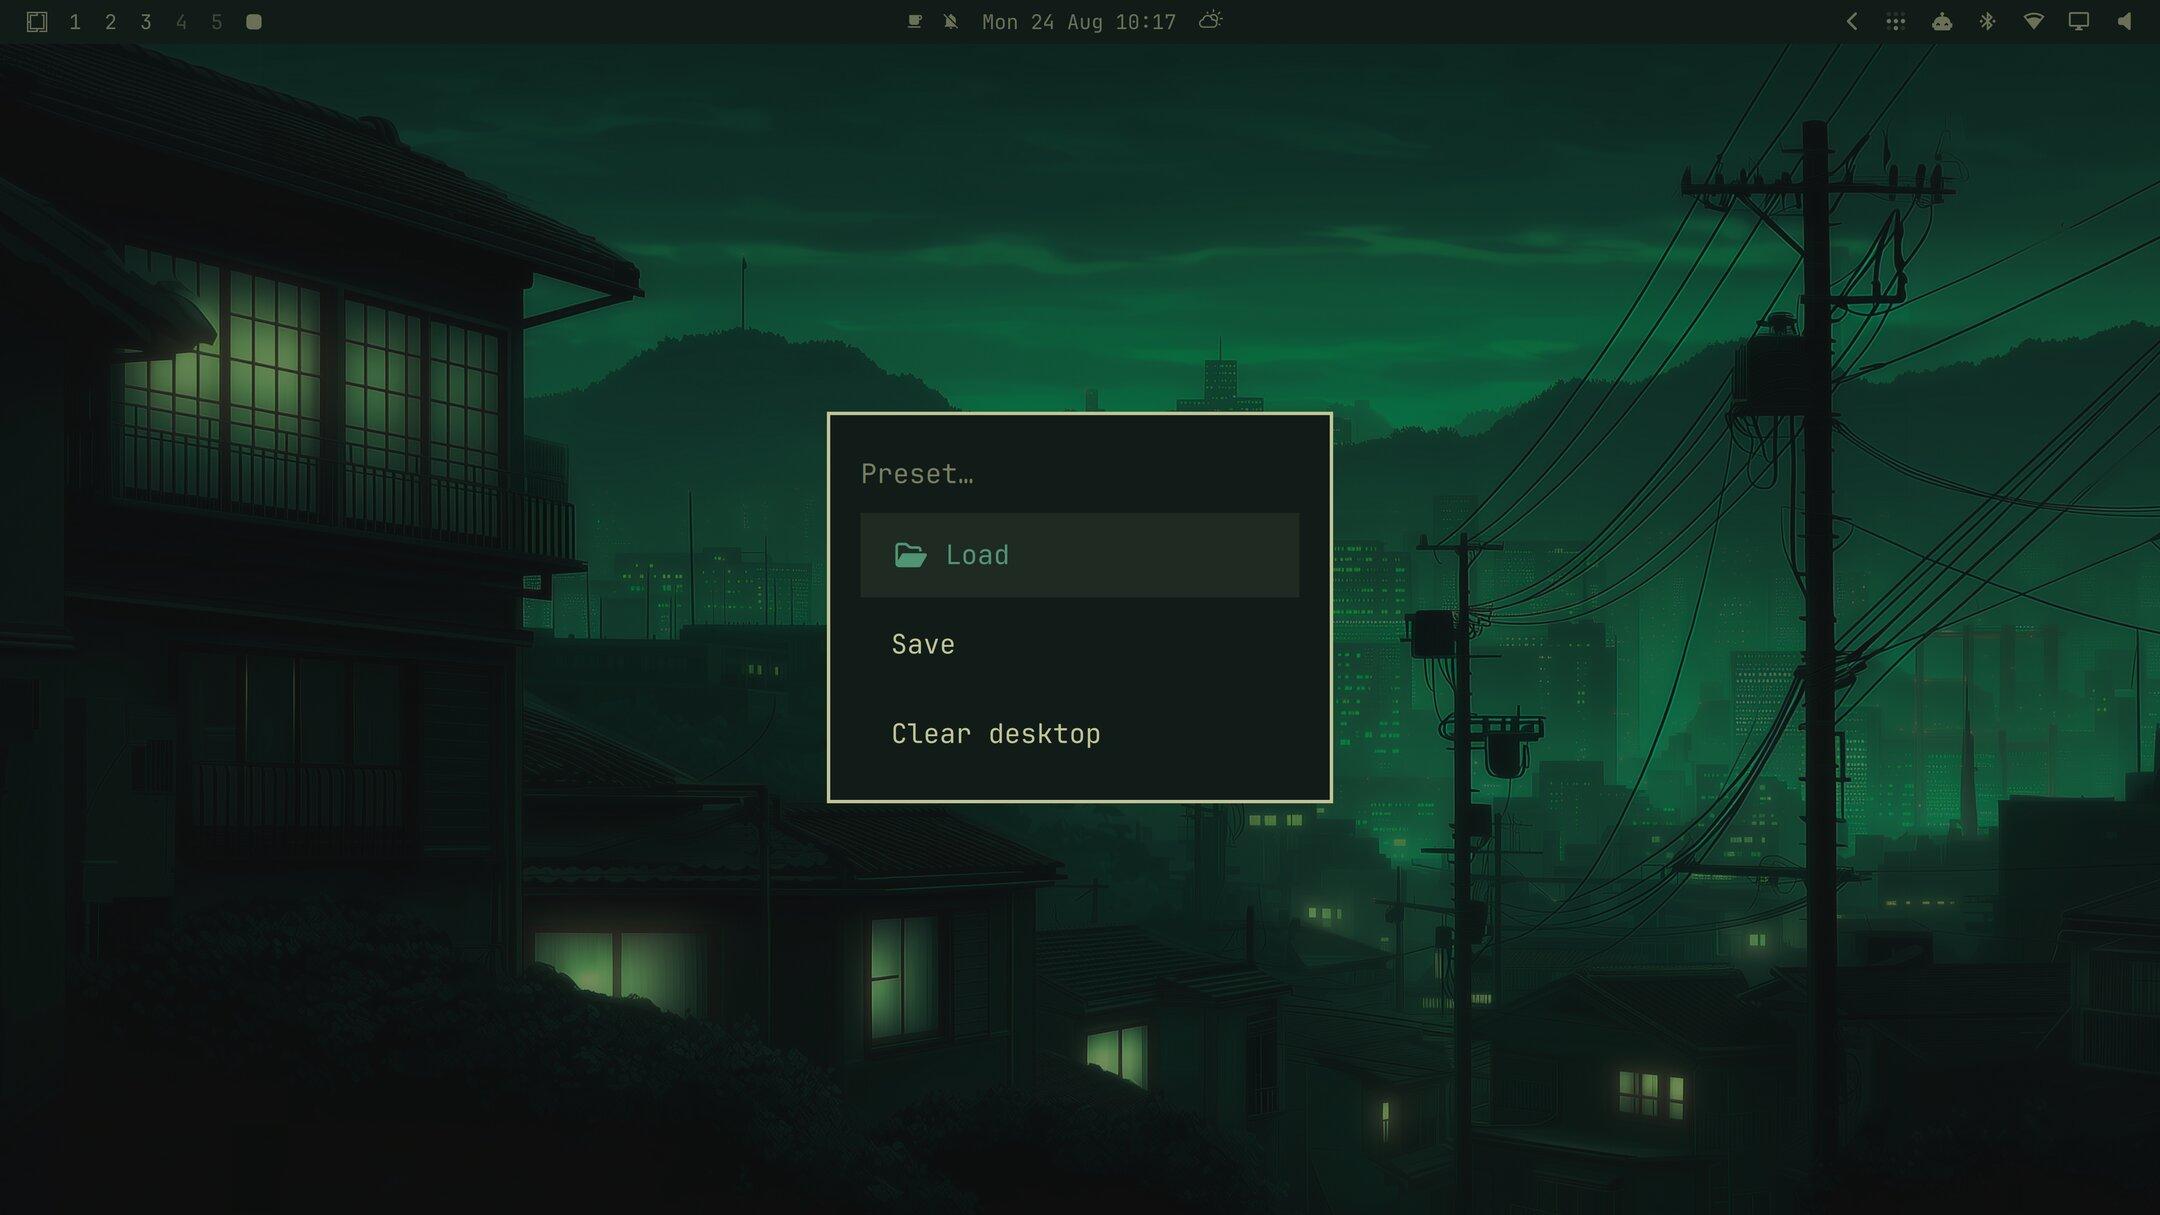
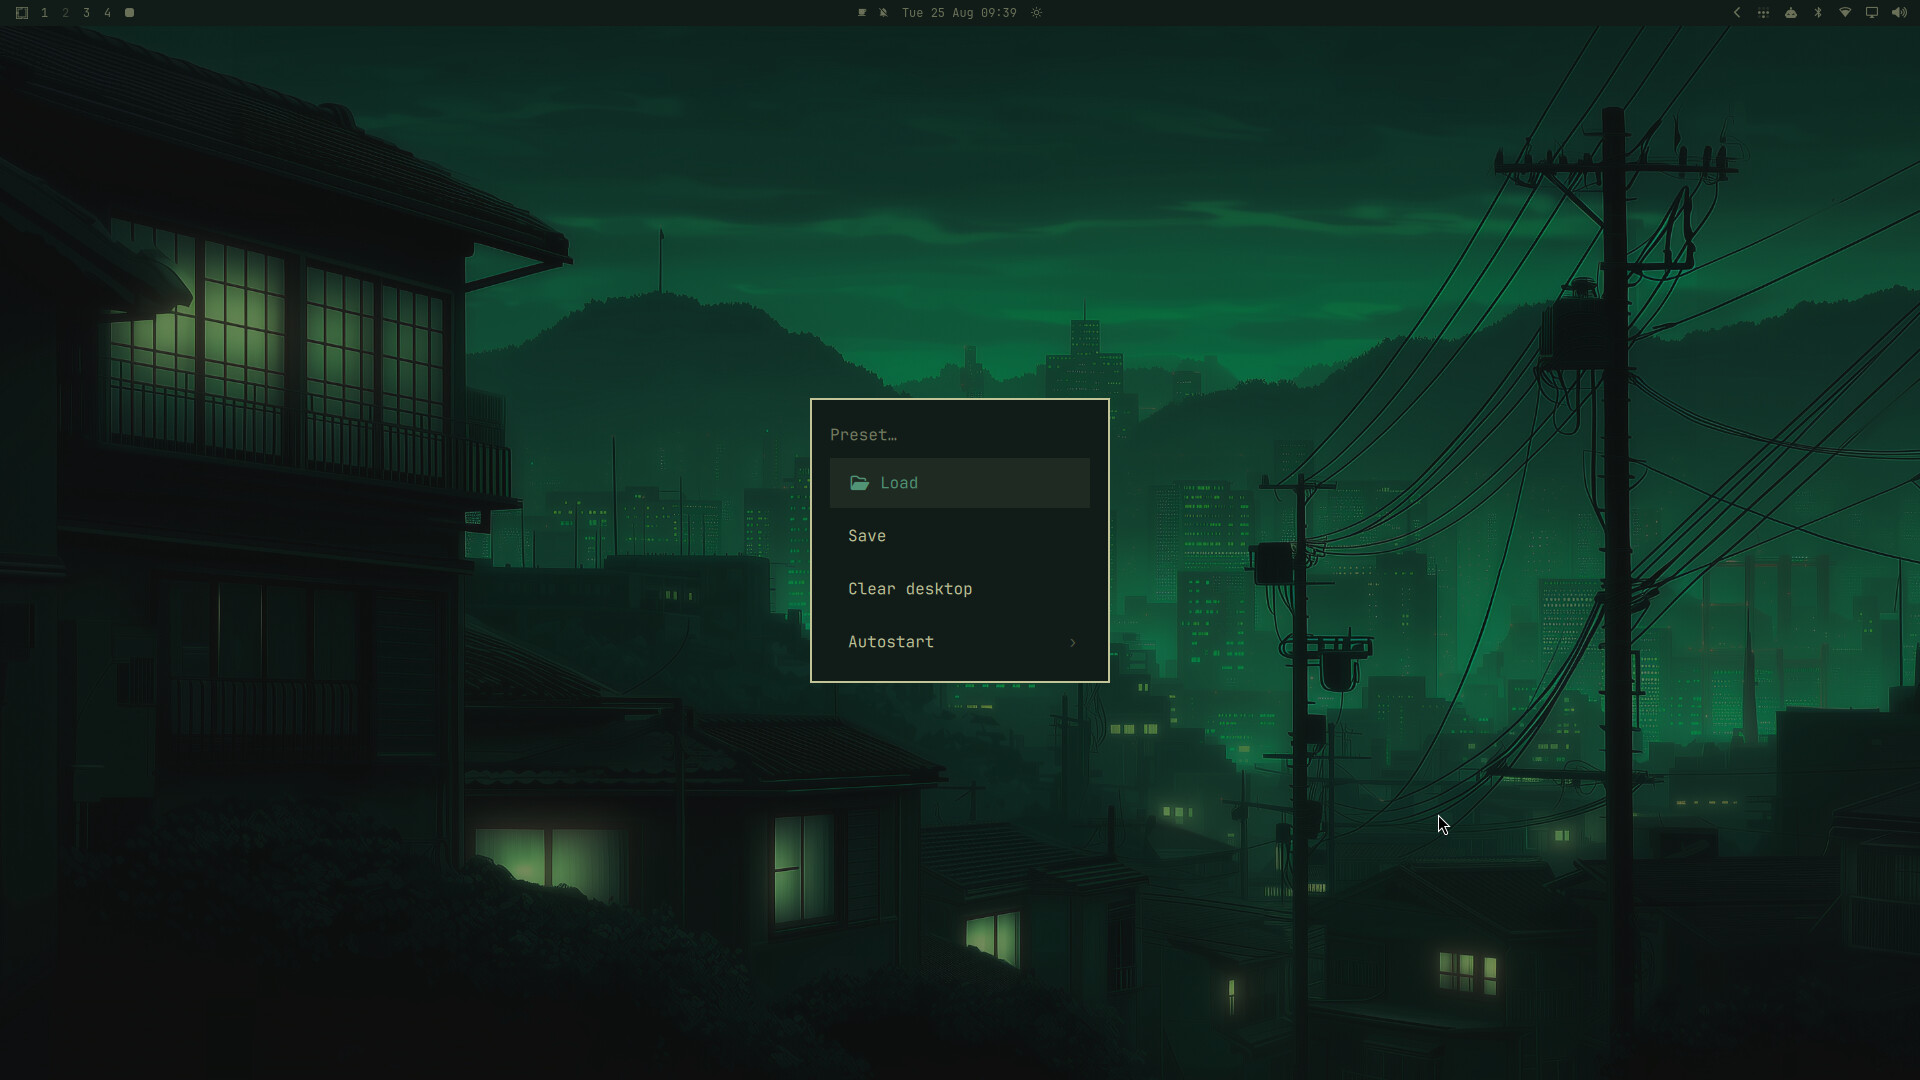
Add autostart: pin a preset to a workspace, auto-load it at login
Stores a workspace-to-preset mapping in ~/.config/desktop_preset/autostart.conf
(desktop_preset autostart set/unset/list/run) and wires it into
~/.config/hypr/autostart.lua via install.sh, which now merges menu entries
per-key so a re-run picks up new ones instead of skipping if the Preset
entry already exists. Adds an Autostart submenu (Enable here / Disable
here / List autostart) alongside the existing Load/Save/Clear entries.

diff --git a/README.md b/README.md
@@ -27,8 +27,9 @@ No terminal needed — everything below runs from **Menu → Trigger → Preset*
 
 | | |
 |---|---|
-| ![Trigger menu](docs/screenshots/5-menu-trigger.jpg) `omarchy menu` → Trigger, with Preset listed | ![Preset submenu](docs/screenshots/6-menu-preset.jpg) The Preset submenu: Load / Save / Clear desktop |
+| ![Trigger menu](docs/screenshots/5-menu-trigger.jpg) `omarchy menu` → Trigger, with Preset listed | ![Preset submenu](docs/screenshots/6-menu-preset.jpg) The Preset submenu: Load / Save / Clear desktop / Autostart |
 | ![Load picker](docs/screenshots/7-menu-load-picker.jpg) Load — picks from your saved presets | ![Save prompt](docs/screenshots/8-menu-save-input.jpg) Save — names the current workspace's layout |
+| ![Autostart submenu](docs/screenshots/9-menu-autostart.jpg) Autostart — Enable here / Disable here / List autostart | ![Autostart enable picker](docs/screenshots/10-menu-autostart-enable-picker.jpg) Enable here — picks which preset this workspace auto-loads at login |
 
 ## Why
 
@@ -52,8 +53,9 @@ git clone <this-repo> && cd omarchy-desktop-preset
 ```
 
 This copies the scripts to `~/.local/bin`, creates `~/.config/desktop_preset`,
-and adds a **Preset** entry under **Trigger** in your Omarchy menu (safe to
-re-run — it won't duplicate the menu entry if it's already there).
+adds a **Preset** entry under **Trigger** in your Omarchy menu, and wires up
+login autostart via `~/.config/hypr/autostart.lua` (safe to re-run — it won't
+duplicate the menu entry or the autostart line if they're already there).
 
 ### Dependencies
 
@@ -88,6 +90,31 @@ doing it. Run `desktop_preset --help` for the full flag list.
 From the desktop: open the Omarchy menu → **Trigger → Preset → Load / Save /
 Clear desktop**. Each pops its own picker (no terminal needed) and reports
 the result as a notification.
+
+## Auto-load at login
+
+Pin a preset to a workspace and it loads automatically the next time you log
+in — handy for a "chat" or "work" arrangement you always want in the same
+place, without running anything by hand.
+
+```
+desktop_preset autostart set chat -w 3   # workspace 3 loads 'chat' at login
+desktop_preset autostart list            # see what's configured
+desktop_preset autostart unset -w 3      # stop auto-loading on workspace 3
+```
+
+Or from the desktop: **Menu → Trigger → Preset → Autostart → Enable here /
+Disable here** (uses whichever workspace you're on) and **List autostart**.
+
+`./install.sh` wires the login side up for you, adding
+`o.launch_on_start("desktop-preset-autostart")` to
+`~/.config/hypr/autostart.lua` (safe to re-run, same as the menu entry). At
+login this runs `desktop_preset autostart run`, which loads every configured
+workspace — skipping any workspace that already has windows on it rather
+than closing them, so it won't clobber anything if you trigger it by hand
+mid-session. The mapping itself lives in
+`~/.config/desktop_preset/autostart.conf` (`<workspace>=<preset>`, one per
+line).
 
 ## How a preset is stored
 
